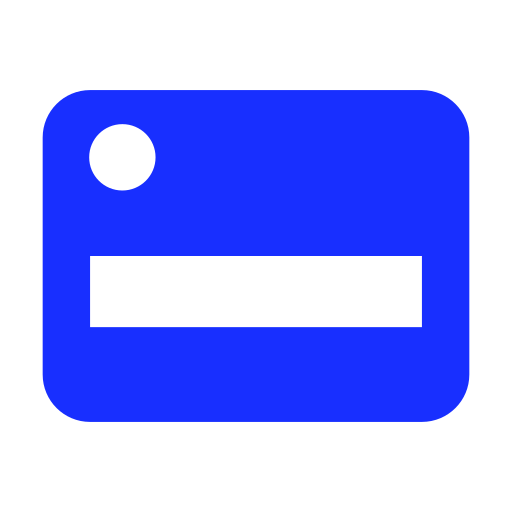
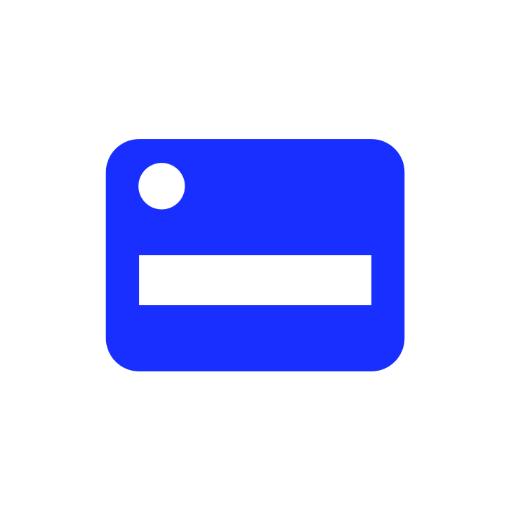
자잘한 UI 수정사항 반영

diff --git a/client/src/pages/Dashboard.jsx b/client/src/pages/Dashboard.jsx
@@ -23,8 +23,8 @@ const Dashboard = () => {
             const isSafari = /Safari/.test(ua) && !/Chrome/.test(ua);
             const isChrome = /Chrome/.test(ua);
             const isStandalone = window.matchMedia('(display-mode: standalone)').matches || 
-                               window.navigator.standalone || 
-                               document.referrer.includes('android-app://');
+                                window.navigator.standalone || 
+                                document.referrer.includes('android-app://');
 
             setInstallState({
                 isIOS: iOS,
@@ -97,18 +97,18 @@ const Dashboard = () => {
                         <p className="font-bold mb-2">설치 방법</p>
                         <ol className="space-y-2">
                             <li className="flex items-center gap-2">
-    <IoShareOutline className="w-5 h-5" />
-    공유 버튼을 탭하세요
-</li>
-                            <li>스크롤을 내려서 <strong>"홈 화면에 추가"</strong>를 선택하세요</li>
-                            <li>"추가"를 탭하면 설치가 완료됩니다</li>
+                                <IoShareOutline className="w-5 h-5" />
+                                공유 버튼을 탭하세요
+                            </li>
+                            <li>스크롤을 내려서 <strong>&quot;홈 화면에 추가&quot;</strong>를 선택하세요</li>
+                            <li>&quot;추가&quot;를 탭하면 설치가 완료됩니다</li>
                         </ol>
                     </div>
                 </div>
             );
         }
 
-        if (!isIOS && showInstallPrompt) {
+        if (!isIOS && !isSafari && showInstallPrompt) {
             return (
                 <button 
                     onClick={handleInstallClick}
@@ -143,83 +143,3 @@ const Dashboard = () => {
 };
 
 export default Dashboard;
-
-
-{/*
-import React, { useContext, useEffect, useState } from 'react';
-import { AuthContext } from '../context/AuthProvider';
-import CardBalance from '../components/CardBalance';
-import PayHistory from '../components/PayHistory';
-import Header from '../components/Header';
-
-const Dashboard = () => {
-    const { user } = useContext(AuthContext);
-
-    const [deferredPrompt, setDeferredPrompt] = useState(null);
-
-    useEffect(() => {
-        const handleBeforeInstallPrompt = (e) => {
-            e.preventDefault();
-            setDeferredPrompt(e);
-            console.log('beforeinstallprompt event fired'); // 로그 추가
-        };
-    
-        window.addEventListener('beforeinstallprompt', handleBeforeInstallPrompt);
-        
-        return () => {
-            window.removeEventListener('beforeinstallprompt', handleBeforeInstallPrompt);
-        };
-    }, []);
-
-    const handleInstallClick = () => {
-        if (deferredPrompt) {
-            deferredPrompt.prompt();
-            deferredPrompt.userChoice.then((choiceResult) => {
-            if (choiceResult.outcome === 'accepted') {
-                console.log('User accepted the install prompt');
-            } else {
-                console.log('User dismissed the install prompt');
-            }
-            setDeferredPrompt(null);
-            });
-        }
-    };
-
-    const isAppInstalled = () => {
-        // 일반적으로 iOS Safari에서 PWA가 설치된 경우
-        return window.matchMedia('(display-mode: standalone)').matches || window.navigator.standalone === true;
-    };
-
-    return (
-        <>
-            <Header />
-            <div className='flex flex-col w-full'>  
-                {user.role === 'super_admin' ? (
-                    <div className='p-8'>
-                        <p>{user.role}</p>
-                    </div>
-                ) : (
-                    <div className='h-full bg-white dark:bg-slate-800'>
-                        <CardBalance role={user.role} />
-                        <PayHistory />
-                    </div>
-                ) }
-                {!isAppInstalled() && deferredPrompt && (
-                    <div className='z-110 fixed bottom-24 right-6'>
-                        <button 
-                            onClick={handleInstallClick} 
-                            className='py-2 px-4 rounded-full bg-white text-blue-600 border border-blue-100 shadow-md'>
-                            Install App
-                        </button>
-                    </div>
-                )}
-            </div>
-        </>
-    );
-};
-
-export default Dashboard;
-
-
-
-*/}

diff --git a/client/src/pages/Teams.jsx b/client/src/pages/Teams.jsx
@@ -67,12 +67,12 @@ function Teams() {
 
     return (
         <>
-            <header className={`flex justify-between items-center py-4 px-6 bg-white dark:text-white dark:bg-slate-800 dark:text-slate-200'}`}>
+            <header className={`flex justify-between items-center py-4 px-6 dark:text-white dark:bg-slate-800 dark:text-slate-200'}`}>
                 <div className='text-2xl' >
                     <span className='font-semibold'>팀계좌</span>
                 </div>
             </header>
-            <div className='flex flex-col gap-y-2'>
+            <div className='flex flex-col gap-y-2 px-6'>
                 {accounts.length === 0 ? 
                     (
                         <div className="flex flex-col justify-center items-center h-default-screen text-gray-500 dark:text-gray-400">
@@ -109,8 +109,8 @@ function Teams() {
                                 const teamOperatingFundPercentage = handleTeamOperatingFundSpent(account);
 
                                 return (
-                                    <div key={account._id} className='pt-8 px-8 bg-white shadow-sm border-t border-t-gray-200 dark:border-t-slate-700 dark:bg-slate-800 dark:text-slate-300'>
-                                        <h3 className='text-lg'>{account.team_id.team_name} {account.account_number.split('-')[account.account_number.split('-').length - 1]} 계좌</h3>
+                                    <div key={account._id} className='pt-8 px-8 bg-white shadow-sm rounded-xl border-t border-t-gray-200 dark:border-t-slate-700 dark:bg-slate-800 dark:text-slate-300'>
+                                        <h3 className='text-lg text-gray-500'>{account.team_id.team_name} {account.account_number.split('-')[account.account_number.split('-').length - 1]} 계좌</h3>
                                         <h3 className='text-2xl tracking-tight text-gray-700 dark:text-slate-300 mt-2 dark:font-thin'>
                                             <span className='font-bold text-black dark:text-slate-300 dark:font-normal'>{(totalBalance + teamOperatingFundBalance).toLocaleString()}원</span> {totalBalance > 0 ? "남음" : ""}
                                         </h3>
@@ -148,7 +148,7 @@ function Teams() {
                                                                     <span className={`font-bold text-black dark:font-normal dark:text-slate-200 ${isWarning ? 'text-red-600 dark:text-red-400' : '' } `}>
                                                                         {card.balance.toLocaleString()}원
                                                                     </span> 
-                                                                    <span className='text-base'>{card.balance > 0 ? "남음" : "" }</span>
+                                                                    <span className='pl-2 text-base'>{card.balance > 0 ? "남음" : "" }</span>
                                                                 </span>
                                                             </div>
                                                             
@@ -168,7 +168,7 @@ function Teams() {
                                                             <span className={`font-bold text-black dark:font-normal dark:text-slate-200`}>
                                                                 {teamOperatingFundBalance.toLocaleString()}원
                                                             </span> 
-                                                            <span className='text-base'>{teamOperatingFundBalance > 0 ? "남음" : "" }</span>
+                                                            <span className='pl-2 text-base'>{teamOperatingFundBalance > 0 ? "남음" : "" }</span>
                                                         </span>
                                                     </div>
                                                     <ProgressBars spentPercentage={teamOperatingFundPercentage} isWarning={false} />

diff --git a/client/src/components/PayHistory.jsx b/client/src/components/PayHistory.jsx
@@ -3,24 +3,25 @@ import { Link } from 'react-router-dom';
 import { API_URLS } from '../services/apiUrls';
 import axios from "../services/axiosInstance";
 import { RiArrowRightSLine } from "react-icons/ri";
+import { MutatingDots } from 'react-loader-spinner';
 
 const PayHistory = () => {
     const [transactions, setTransactions] = useState([]);
-    const [isLoading, setIsLoading] = useState(true); // 로딩 상태 추가
+    const [isLoading, setIsLoading] = useState(true);
 
     useEffect(() => {
         fetchData(API_URLS.TRANSACTIONS, setTransactions);
     }, []);
 
     const fetchData = async (url, setter) => {
-        setIsLoading(true); // 로딩 시작
+        setIsLoading(true);
         try {
             const response = await axios.get(url);
             setter(response.data);
         } catch (error) {
             console.error(`Error fetching data from ${url}:`, error);
         } finally {
-            setIsLoading(false); // 로딩 끝
+            setIsLoading(false);
         }
     };
 
@@ -35,7 +36,18 @@ const PayHistory = () => {
             </div>
             {isLoading ? (
                 <div className="flex flex-col items-center justify-center h-dashboard-screen">
-                    <p className='text-lg text-gray-600 dark:text-gray-500'>데이터를 불러오는 중입니다...</p>
+                    <MutatingDots
+                        visible={true}
+                        height="100"
+                        width="100"
+                        color="#b8a57f"
+                        secondaryColor="#0433FF"
+                        radius="12.5"
+                        ariaLabel="mutating-dots-loading"
+                        wrapperStyle={{}}
+                        wrapperClass=""
+                    />
+                    <p className='text-lg font-semibold text-blue-900 dark:text-gray-500'>데이터를 불러오는 중입니다.</p>
                     {/* 로딩 스켈레톤 컴포넌트 추가 가능 */}
                 </div>
             ) : filteredTransactions.length === 0 ? (

diff --git a/client/src/components/Header.jsx b/client/src/components/Header.jsx
@@ -16,23 +16,23 @@ const Header = () => {
     useEffect(() => {
         const currentHour = new Date().getHours();
         if (currentHour >= 8 && currentHour < 10) {
-            setGreeting('굿모닝');
+            setGreeting('GM!');
         } else if (currentHour === 12) {
-            setGreeting('맛점해요');
+            setGreeting('Eat up!');
         } else if (currentHour >= 22) {
-            setGreeting('굿나잇');
+            setGreeting('GN!');
         } else {
-            setGreeting('안녕하세요');
+            setGreeting('Hello,');
         }
     }, []);
 
     return (
         <header className={`flex justify-between items-center py-4 px-6 shadow-md ${isDashBoard && user.role !== 'super_admin' ? 'bg-[#0433FF] text-white' : 'dark:bg-slate-800 dark:text-slate-200'}`}>
             <div className='text-2xl' >
-                <span className='font-thin'>{greeting},</span>
-                <span className="pl-2 font-semibold">{user.name.slice(1)}</span>
+                <span className='font-thin'>{greeting}</span>
+                <span className="pl-2 font-semibold">{user.name.slice(1)}님</span>
             </div>
-            <div className='flex gap-x-6'>
+            <div className='flex gap-x-4'>
                 <Darkmode isDashBoard = {isDashBoard} />
                 <Notification isDashBoard = {isDashBoard} role = {user.role} />
                 <AdminBtn isDashBoard = {isDashBoard} role = {user.role} />

diff --git a/client/src/pages/Transactions.jsx b/client/src/pages/Transactions.jsx
@@ -470,7 +470,7 @@ const Transactions = () => {
                 {/* 트랜잭션 목록 */}
 
                 <div className='flow-root'>
-                    <div className="flex items-center justify-between mb-4">
+                    <div className="flex items-center justify-between mb-4 px-3">
                         <h5 className="text-2xl font-semibold leading-none text-black dark:text-white">지출 내역</h5>
                         <button
                             type="button" 

diff --git a/client/vite.config.js b/client/vite.config.js
@@ -35,9 +35,15 @@ export default defineConfig({
             src: 'pwa-256x256.png',
             sizes: '256x256',
             type: 'image/png',
+            purpose: 'maskable',
           },
           {
             src: 'pwa-512x512.png',
+            sizes: '512x512',
+            type: 'image/png',
+          },
+          {
+            src: 'pwa-512x512-maskable.png',
             sizes: '512x512',
             type: 'image/png',
             purpose: 'maskable',

diff --git a/client/src/pages/Profile.jsx b/client/src/pages/Profile.jsx
@@ -1,4 +1,4 @@
-  import React, { useState, useEffect, useContext } from 'react'
+import React, { useState, useEffect, useContext } from 'react'
 import { AuthContext } from '../context/AuthProvider';
 import ProfileDrawer from '../components/ProfileDrawer';
 import axios from "../services/axiosInstance"; 

diff --git a/client/src/components/ProgressBars.jsx b/client/src/components/ProgressBars.jsx
@@ -12,7 +12,7 @@ function ProgressBars({ spentPercentage, isWarning }) {
     }, [spentPercentage]);
 
     const progressBarColor = isWarning 
-        ? 'bg-red-500'
+        ? 'bg-red-300'
         : spentPercentage === 100 
             ? 'bg-green-500' 
             : 'bg-[#0433FF]';
